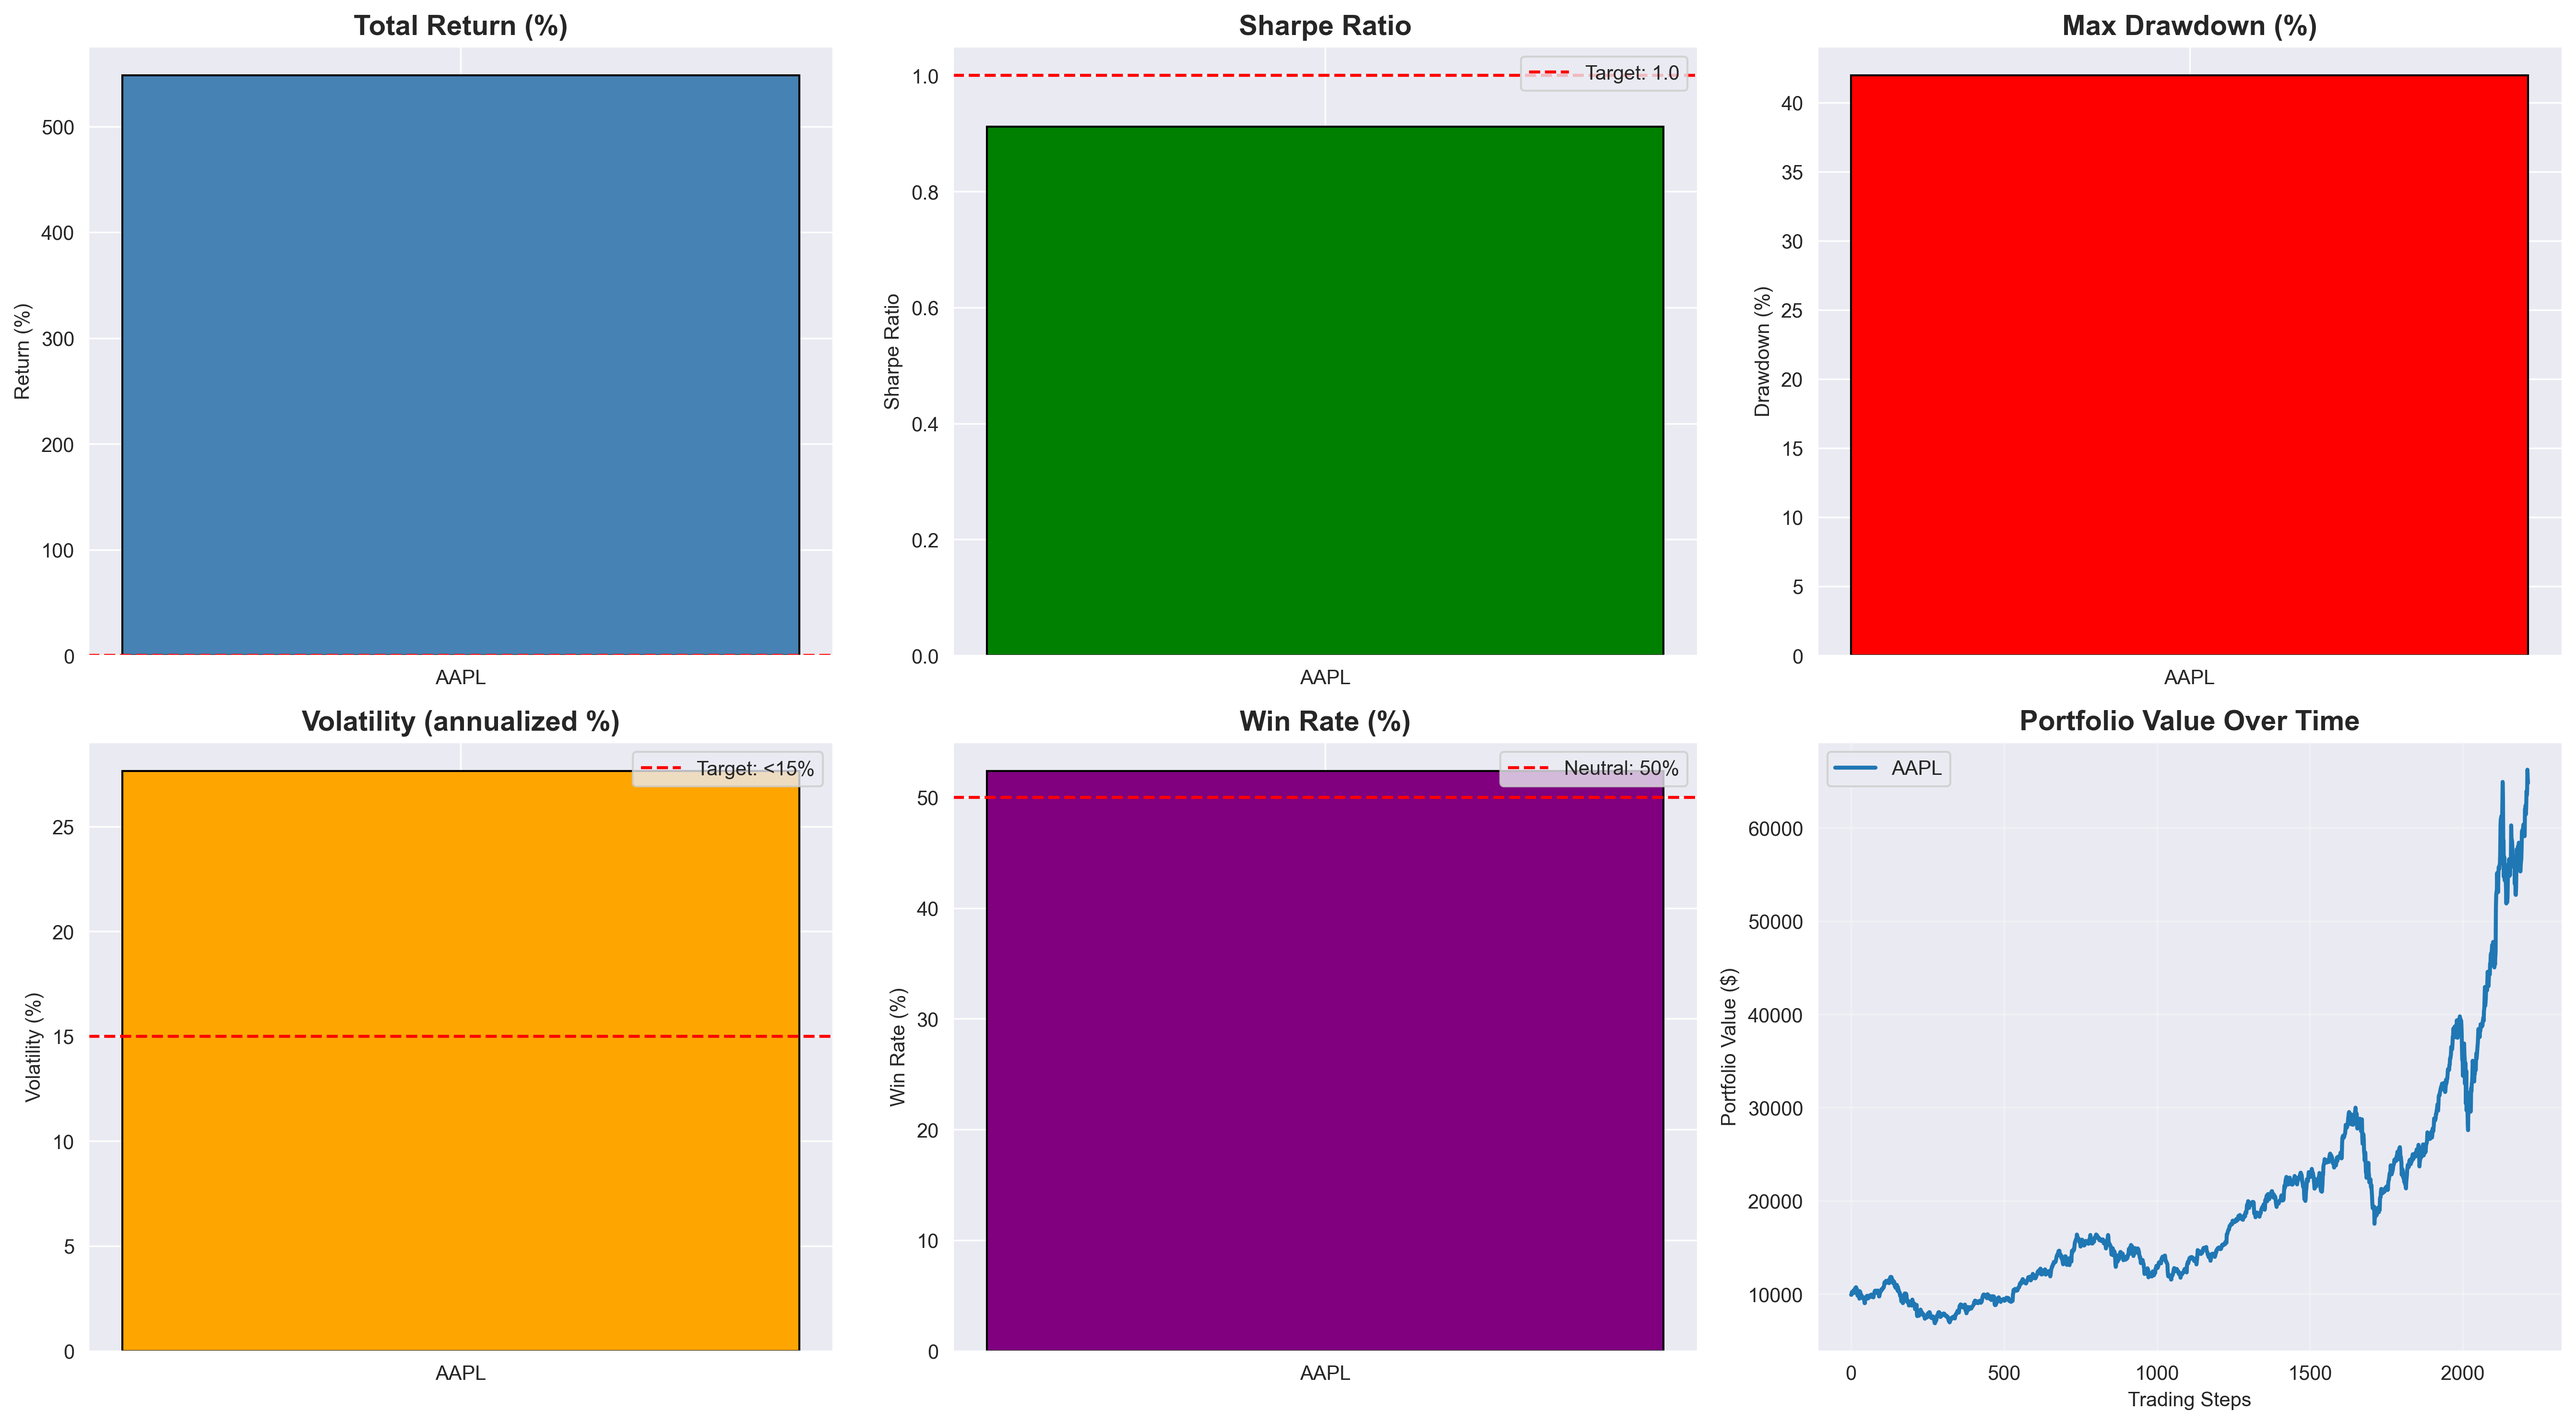
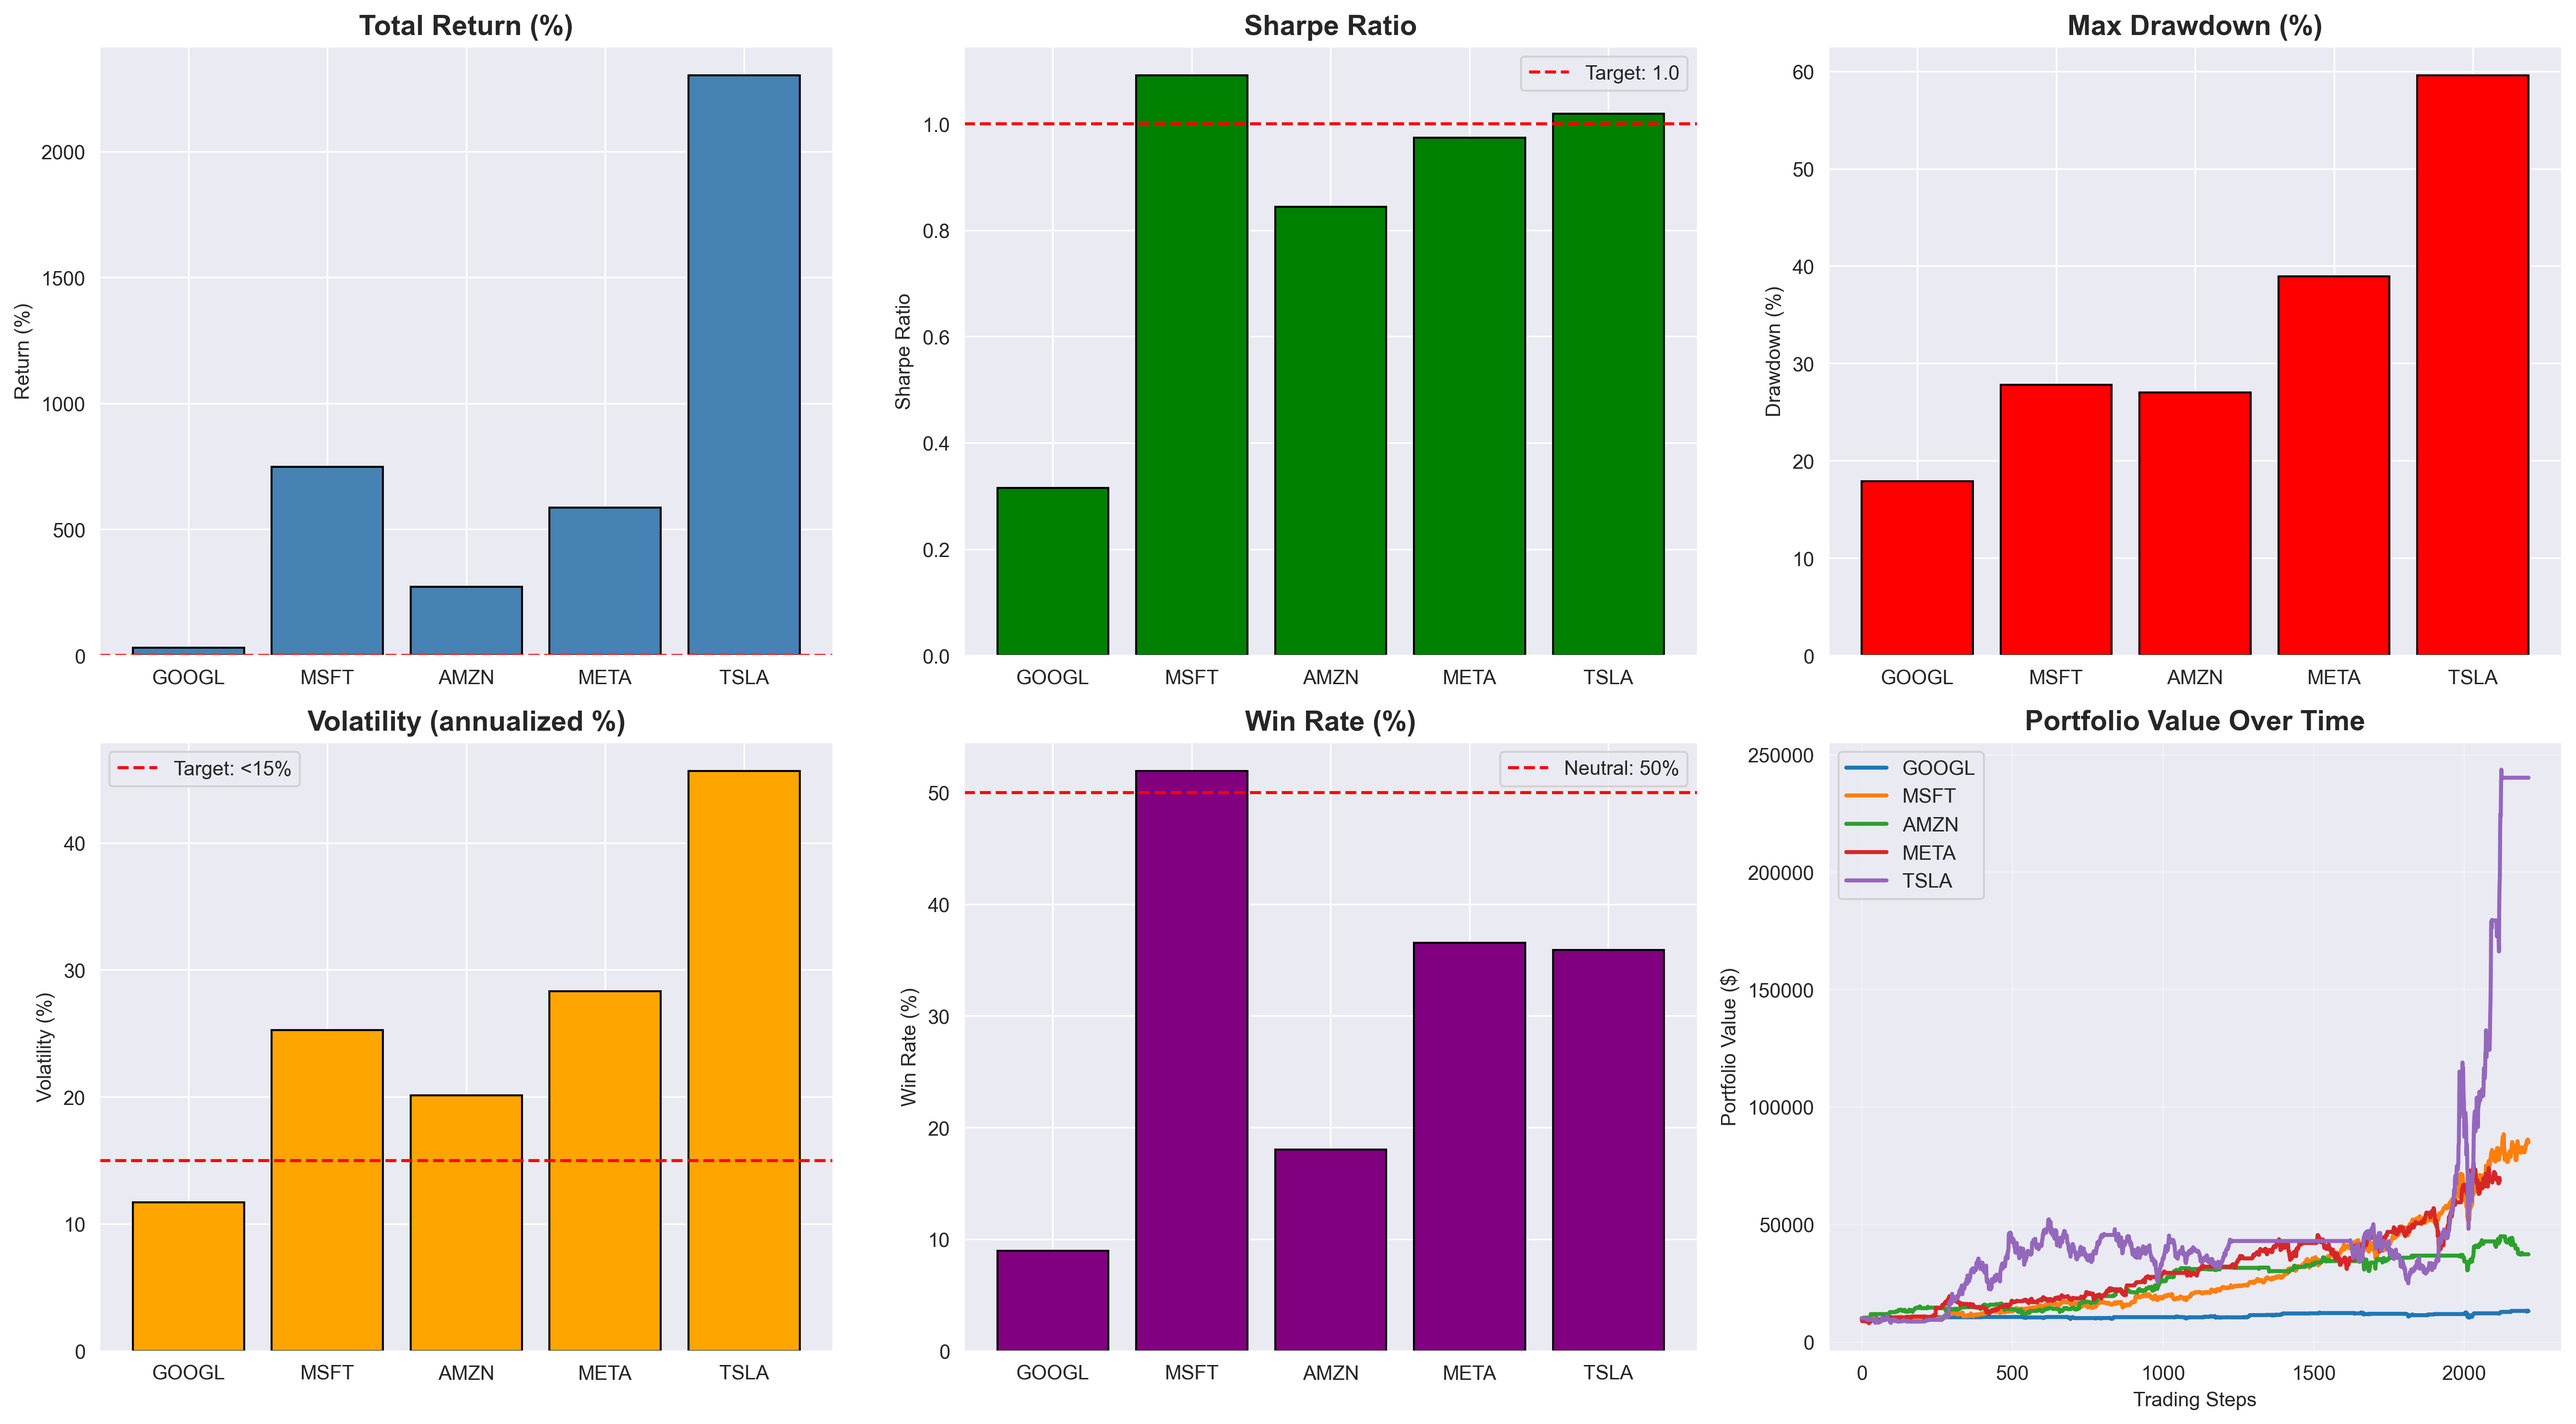
generate visualizazioni di metriche

diff --git a/scripts/backtesting/backtest_ensemble.py b/scripts/backtesting/backtest_ensemble.py
@@ -8,6 +8,7 @@ import pickle
 from tqdm import tqdm
 import sys
 import os
+import argparse
 
 # Add parent directory to path
 sys.path.append(os.path.dirname(os.path.dirname(os.path.abspath(__file__))))
@@ -118,16 +119,26 @@ def backtest_ensemble(ticker, ensemble, market_df, strategies, config):
 def main():
     """Main backtesting pipeline"""
 
+    # Parse command line arguments
+    parser = argparse.ArgumentParser(description='Backtest ReWTSE ensemble on a specific ticker')
+    parser.add_argument('ticker', type=str, help='Stock ticker symbol (e.g., AAPL, GOOGL)')
+    parser.add_argument('--initial-balance', type=float, default=10000, help='Initial balance (default: 10000)')
+    parser.add_argument('--transaction-cost', type=float, default=0.001, help='Transaction cost (default: 0.001)')
+    parser.add_argument('--chunk-length', type=int, default=500, help='ReWTS chunk length (default: 500)')
+    parser.add_argument('--lookback-length', type=int, default=100, help='Lookback window (default: 100)')
+
+    args = parser.parse_args()
+
     config = {
-        'tickers': ['AAPL'],
+        'tickers': [args.ticker.upper()],
         'rewts': {
-            'chunk_length': 500,
-            'lookback_length': 100,
+            'chunk_length': args.chunk_length,
+            'lookback_length': args.lookback_length,
             'forecast_horizon': 1
         },
         'trading_env': {
-            'initial_balance': 10000,
-            'transaction_cost': 0.001,
+            'initial_balance': args.initial_balance,
+            'transaction_cost': args.transaction_cost,
             'max_position': 1.0
         },
         'strategy_frequency': 20
